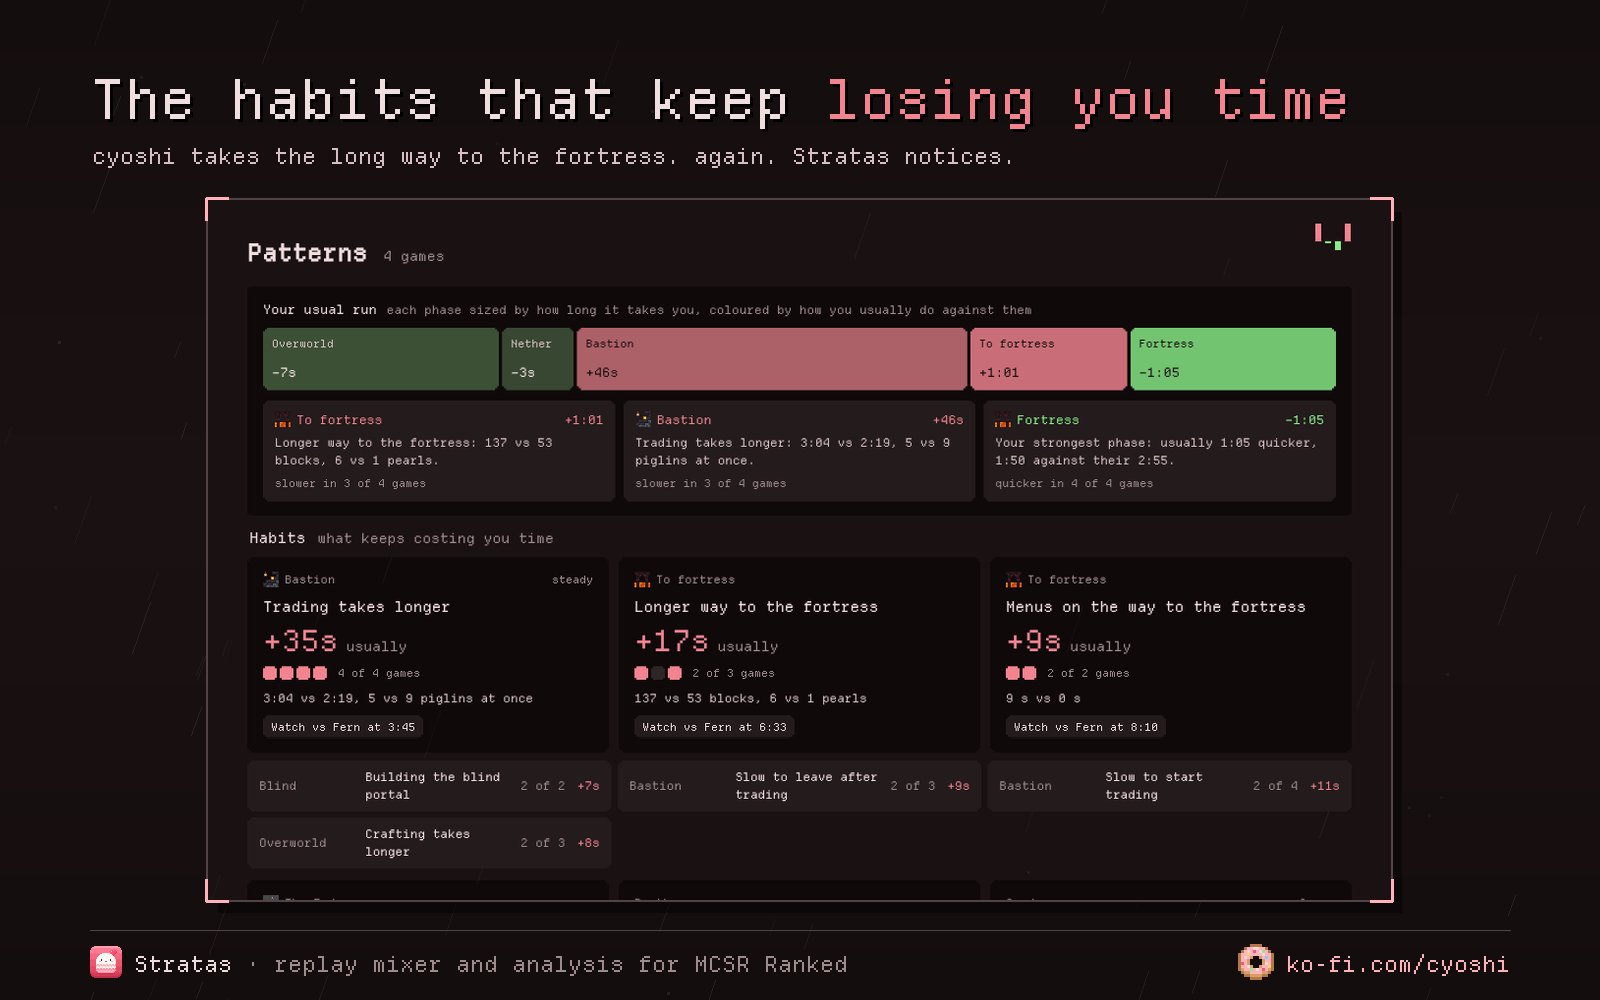
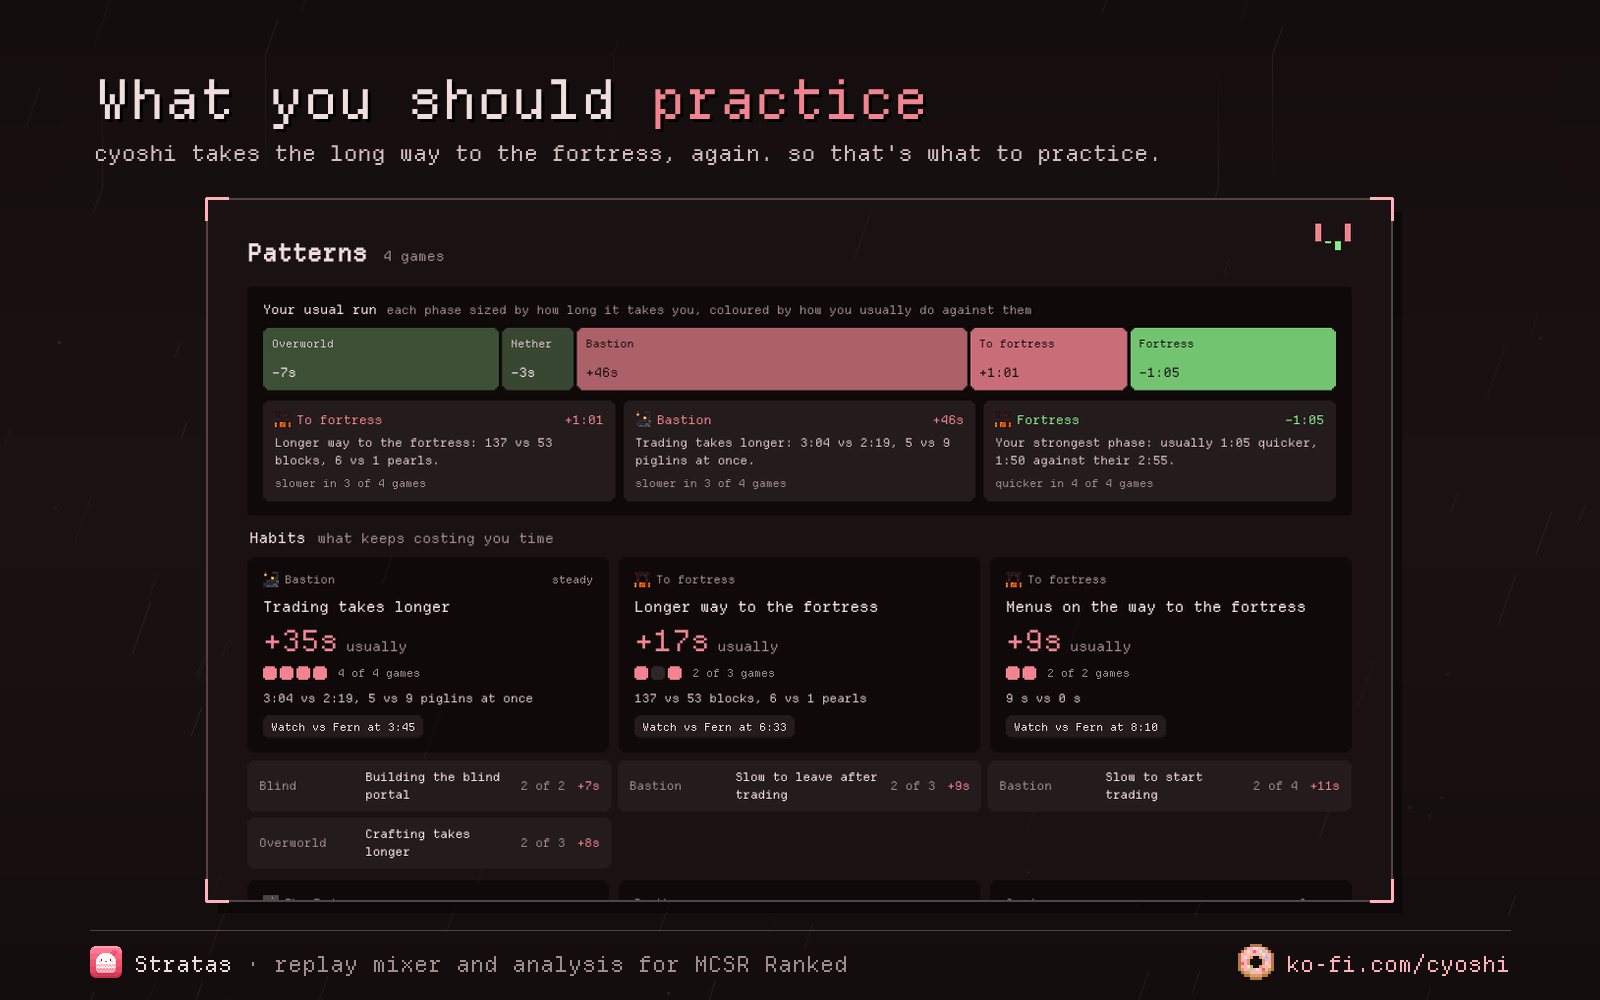
what you should practice instead of habits on the card, readme and website

diff --git a/web/index.html b/web/index.html
@@ -39,7 +39,7 @@
         <img src="../docs/readme/card-practice.png" alt="Picking who to practice against by Elo" loading="lazy" />
         <img src="../docs/readme/card-race.png" alt="Your gap to them over the whole run" loading="lazy" />
         <img src="../docs/readme/card-bastion.png" alt="Zoomed into the bastion, trade by trade" loading="lazy" />
-        <img src="../docs/readme/card-habits.png" alt="Habits that keep losing you time" loading="lazy" />
+        <img src="../docs/readme/card-habits.png" alt="What you should practice" loading="lazy" />
       </section>
 
       <section class="get" id="download">

diff --git a/README.md b/README.md
@@ -52,7 +52,7 @@ It finds a run from a player at the Elo you pick. You play that seed in a privat
     <td width="50%" valign="top">
       <p><b>Deaths and what they cost</b><br>how long you were gone and what you dropped</p>
       <p><b>The End</b><br>zero cycles, failed cycles, each perch and the dragon kill</p>
-      <p><b>Your habits</b><br>after a few games, the things that keep losing you time</p>
+      <p><b>What you should practice</b><br>after a few games, the things that keep losing you time</p>
     </td>
   </tr>
 </table>
@@ -63,7 +63,7 @@ It finds a run from a player at the Elo you pick. You play that seed in a privat
 
 - Ranked only lets you watch the people from your own match. Stratas puts **anyone's run on the same seed** into your replay, at whatever Elo you pick, so you can see exactly where you lost or gained time.
 - It doesn't just tell you that you lost 40 seconds in the bastion, it tells you **why**, like 7 piglins being stuck on gold.
-- After a few games it picks up on **the stuff that keeps losing you time**.
+- After a few games it tells you **what you should practice**, the stuff that keeps losing you time.
 - There's no mod and nothing to record. It just uses the replays Ranked already saves.
 - Everything stays on your computer. It reads Ranked's files and adds the mixed replays to My replays, that's it.
 
@@ -77,7 +77,7 @@ It finds a run from a player at the Elo you pick. You play that seed in a privat
     <td width="50%"><img src="docs/readme/card-breakdown.png" alt="Where the time went"></td>
   </tr>
   <tr>
-    <td width="50%"><img src="docs/readme/card-habits.png" alt="Habits that keep losing you time"></td>
+    <td width="50%"><img src="docs/readme/card-habits.png" alt="What you should practice"></td>
     <td width="50%"><img src="docs/readme/card-themes.png" alt="Themes and colours"></td>
   </tr>
 </table>
